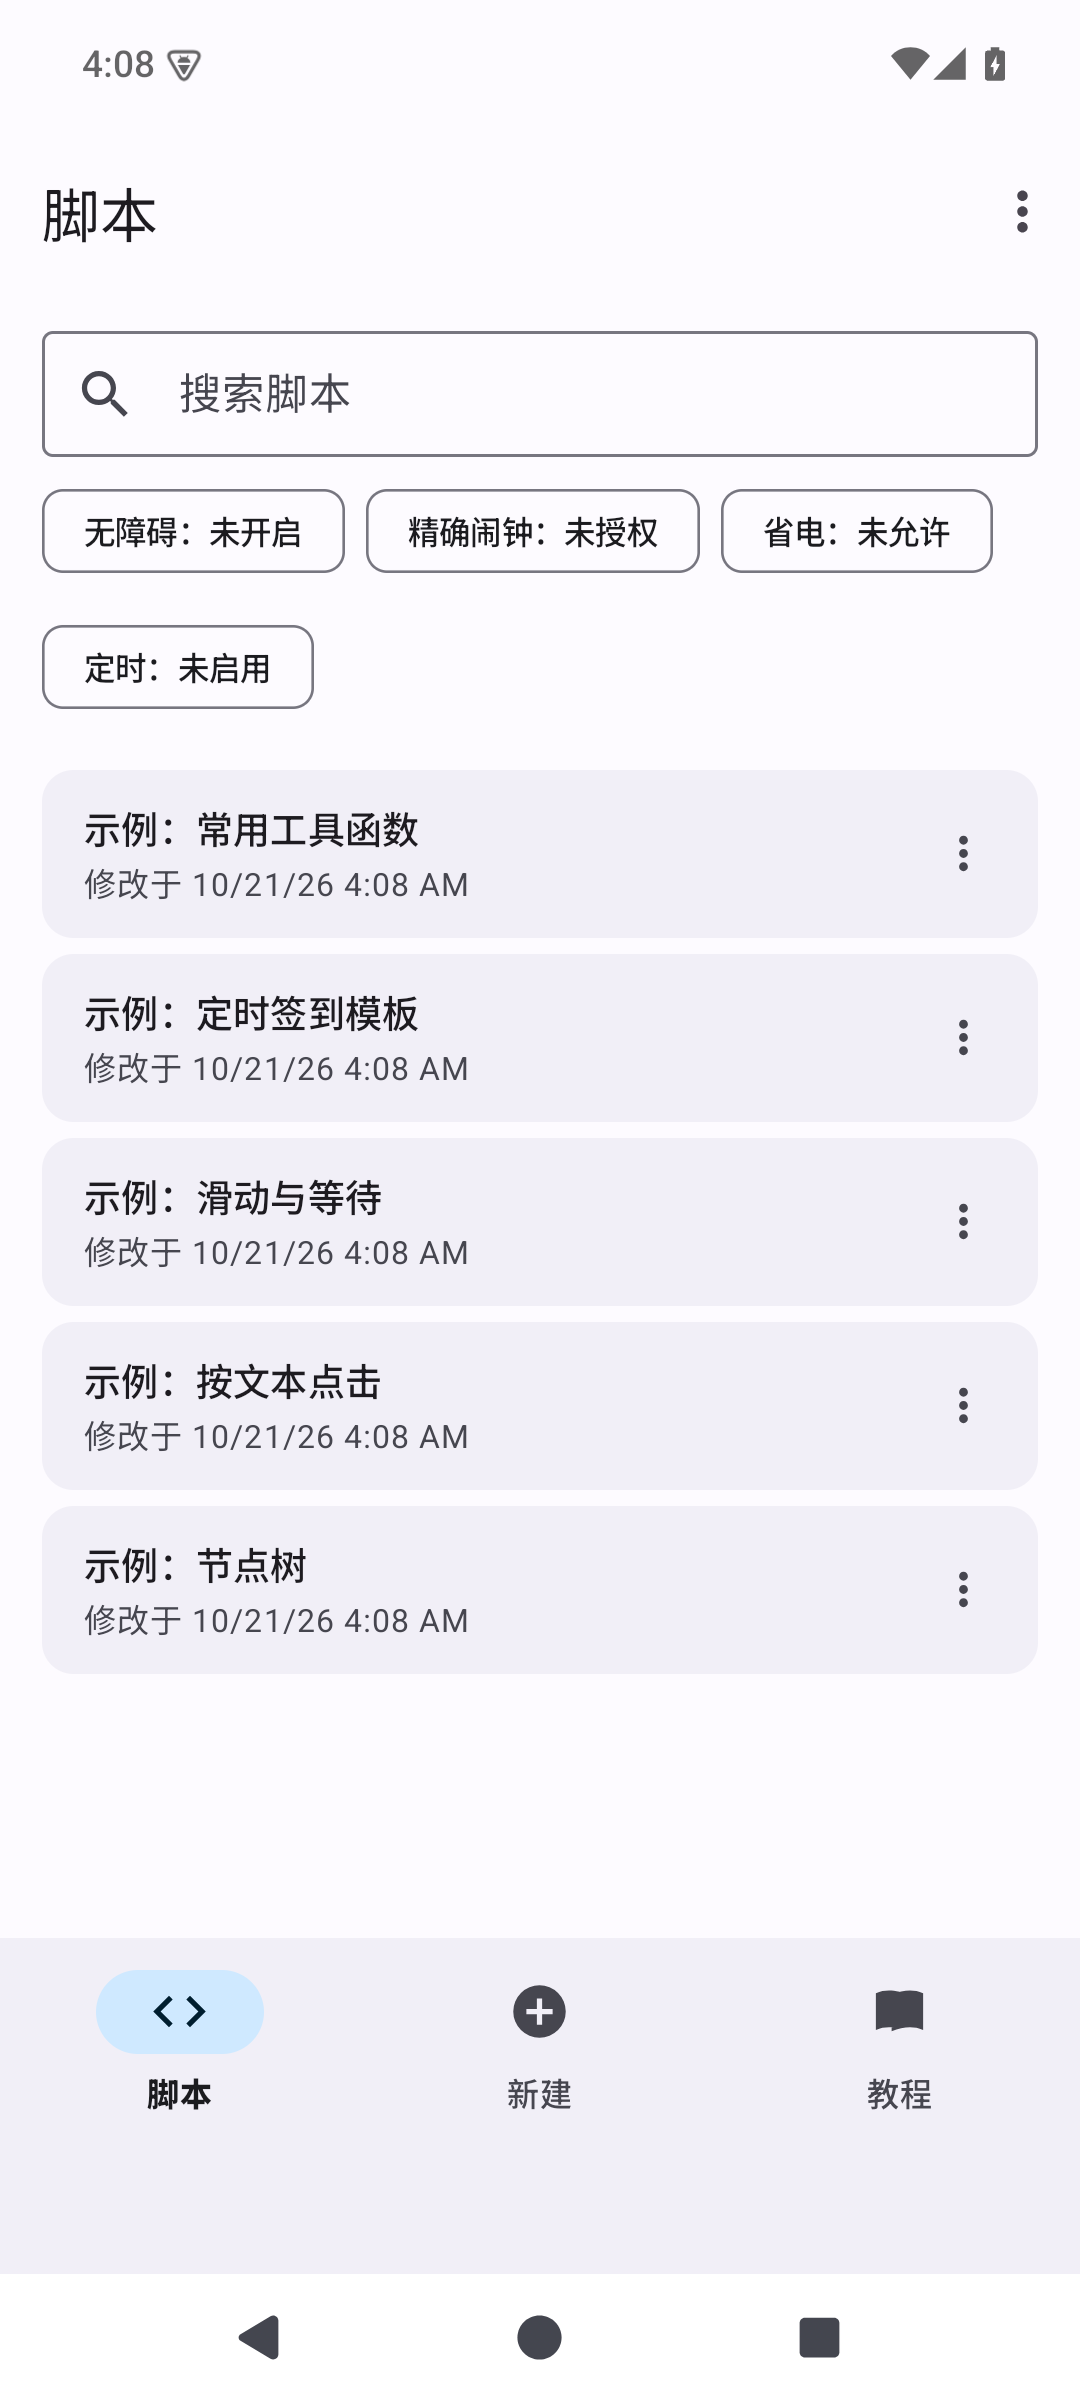
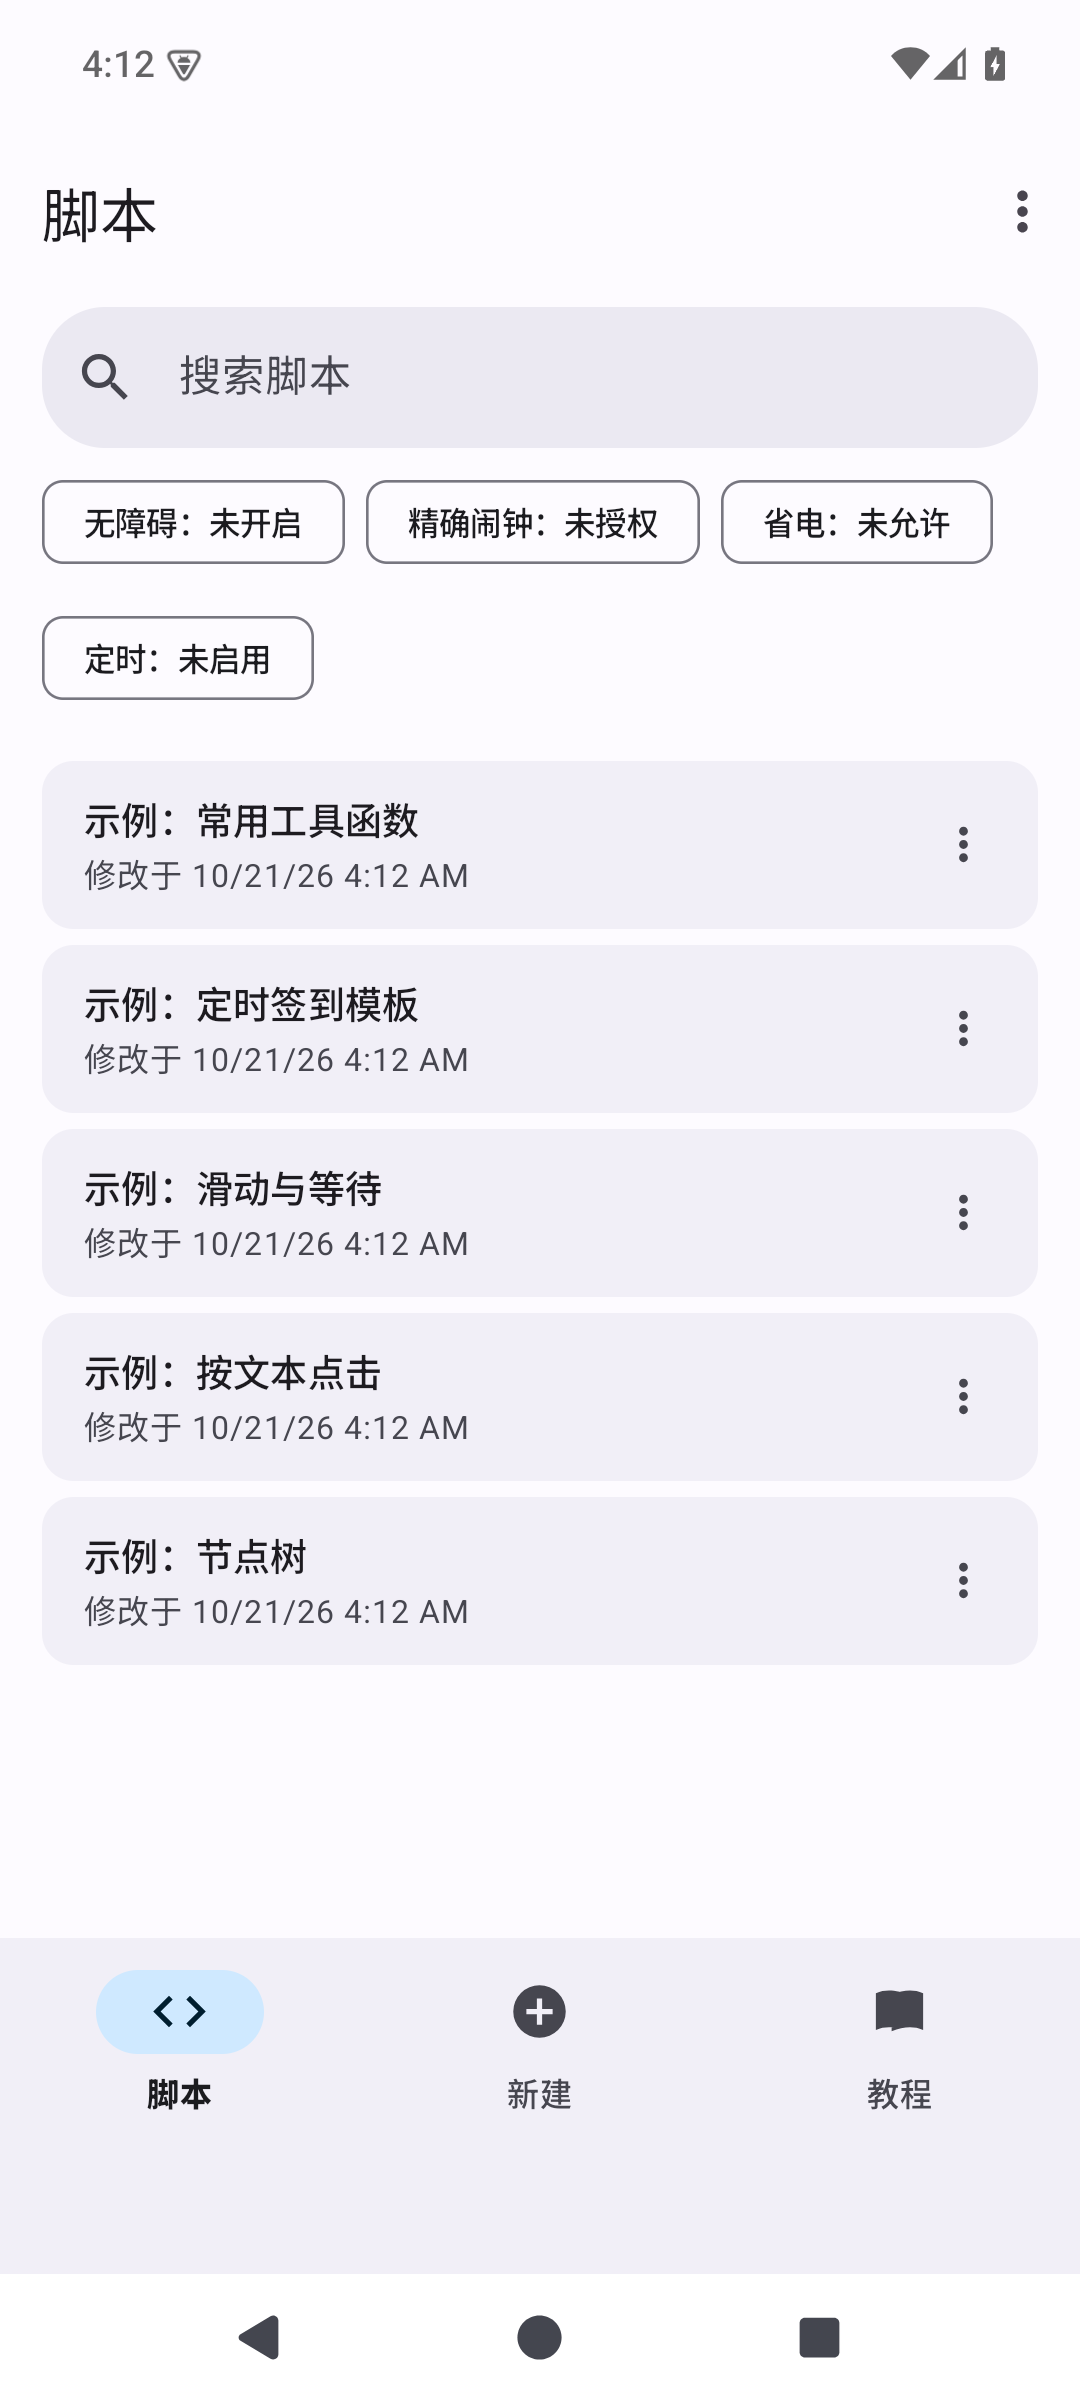
搜索框固定为顶部紧凑搜索条

diff --git a/app/src/main/java/com/microauto/ui/MainActivity.kt b/app/src/main/java/com/microauto/ui/MainActivity.kt
@@ -9,6 +9,8 @@ import android.os.PowerManager
 import android.provider.OpenableColumns
 import android.provider.Settings
 import android.view.View
+import android.view.inputmethod.EditorInfo
+import android.view.inputmethod.InputMethodManager
 import android.widget.Toast
 import androidx.activity.OnBackPressedCallback
 import androidx.activity.result.contract.ActivityResultContracts
@@ -155,6 +157,14 @@ class MainActivity : AppCompatActivity() {
             }
         }
         binding.searchInput.doAfterTextChanged { refresh() }
+        binding.searchInput.setOnEditorActionListener { _, actionId, _ ->
+            if (actionId == EditorInfo.IME_ACTION_SEARCH) {
+                hideKeyboard()
+                true
+            } else {
+                false
+            }
+        }
         binding.tutorialContent.btnRestoreBuiltins.setOnClickListener { restoreBuiltins() }
         binding.btnEmptyNew.setOnClickListener { newScript() }
         binding.btnEmptyImport.setOnClickListener {
@@ -613,6 +623,12 @@ class MainActivity : AppCompatActivity() {
 
     private fun toast(message: String) {
         Toast.makeText(this, message, Toast.LENGTH_SHORT).show()
+    }
+
+    private fun hideKeyboard() {
+        getSystemService(InputMethodManager::class.java)
+            ?.hideSoftInputFromWindow(binding.searchInput.windowToken, 0)
+        binding.searchInput.clearFocus()
     }
 
     override fun onSaveInstanceState(outState: Bundle) {
